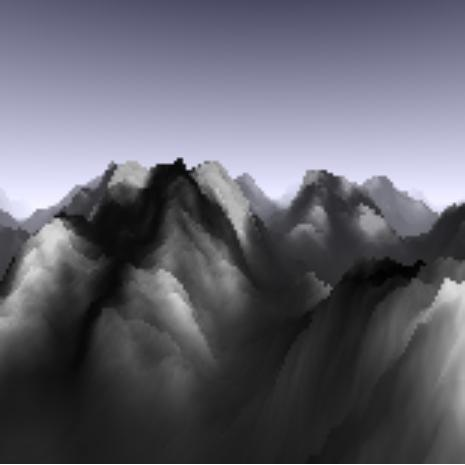
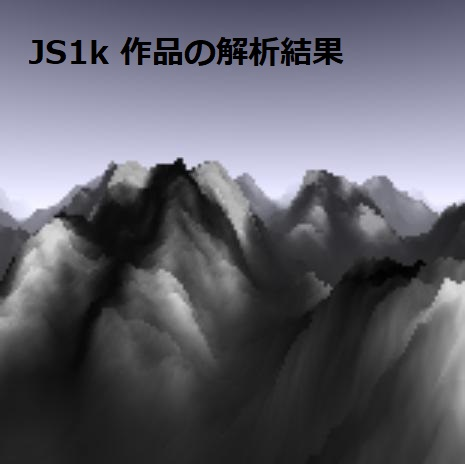
Add sample URL to GLSL tag

Changed region(s): [[0.0602, 0.0602, 0.7527, 0.1505]]

diff --git a/tag/glsl/README.md b/tag/glsl/README.md
@@ -137,7 +137,7 @@ jsdo.it archives
 <td><a href="https://cx20.github.io/jsdo.it-archives/cx20/j0VV" title="[簡易版] GLSL でパーティクルの形を変えてみるテスト（その４）"><img src="https://cx20.github.io/jsdo.it-archives/screenshot/j0VV.jpg" width="200" height="200"></a></td>
 <td><a href="https://cx20.github.io/jsdo.it-archives/cx20/j0VV" title="[簡易版] GLSL でパーティクルの形を変えてみるテスト（その４）"><img src="https://cx20.github.io/jsdo.it-archives/screenshot/j0VV.jpg" width="200" height="200"></a></td>
 <td><a href="https://cx20.github.io/jsdo.it-archives/cx20/lMo6" title="GLSL で富士山を描いてみるテスト"><img src="https://cx20.github.io/jsdo.it-archives/screenshot/lMo6.jpg" width="200" height="200"></a></td>
-<td></td>
+<td><a href="https://cx20.github.io/jsdo.it-archives/cx20/5ivN" title="[js1k] GL Dragon Flight（解析結果）"><img src="https://cx20.github.io/jsdo.it-archives/screenshot/5ivN.jpg" width="200" height="200"></a></td>
 </tr>
 <tr>
 <td><a href="https://cx20.github.io/jsdo.it-archives/cx20/gBNF" title="[GLSL] Glitchy Mario"><img src="https://cx20.github.io/jsdo.it-archives/screenshot/gBNF.jpg" width="200" height="200"></a></td>
